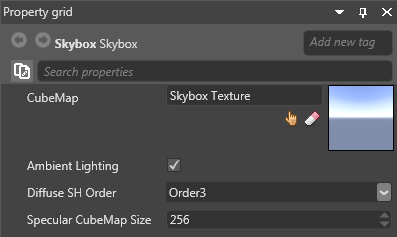
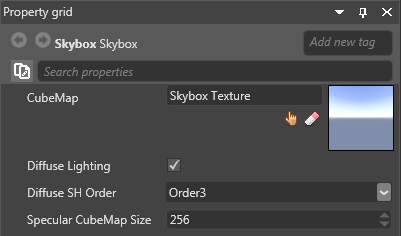
[Graphics] skybox-lights.md, skybox-asset-properties.png - update screenshot

diff --git a/manual/graphics/lights-and-shadows/skybox-lights.md b/manual/graphics/lights-and-shadows/skybox-lights.md
@@ -72,7 +72,7 @@ When you use a skybox as a light, Xenko uses it both in compressed form ([spheri
 | Property     | Description                                                                                                                                                                                    |
 | ------------ | ---------------------------------------------------------------------------------------------------------------------------------------------------------------------------------------------- |
 | Cube Map |  The cubemap asset used for the skybox. 
-| Ambient lighting      |  Use the skybox for ambient lighting as well as specular lighting
+| Diffuse lighting      |  Use the skybox for diffuse lighting as well as specular lighting
 | Diffuse SH Order  | The level of detail of the compressed skybox, used for diffuse lighting (dull materials). `Order5` is more detailed than `Order3`. |
 | Specular Cubemap Size | The texture size used for specular lighting. Larger textures have more detail. |
 
